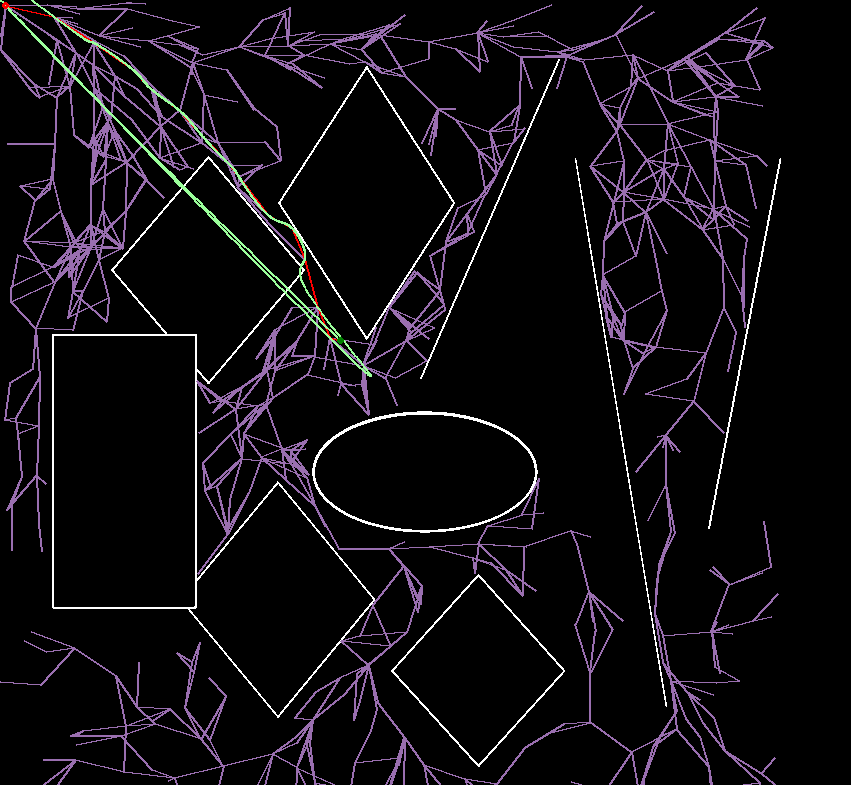
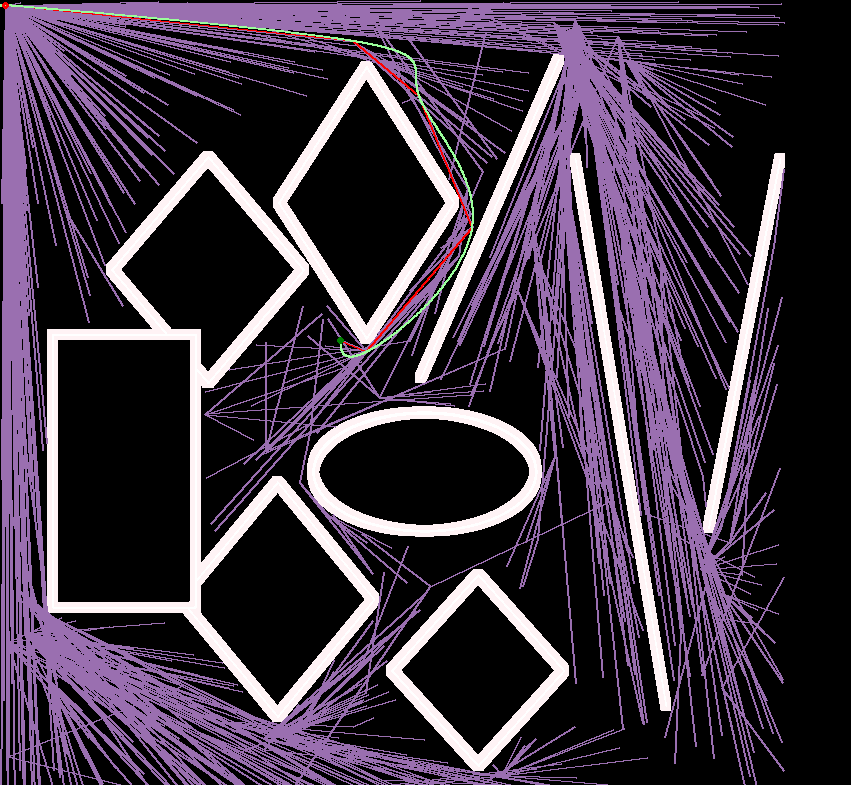
Config now allows for padding optons to account for robot size.

diff --git a/utils/render.py b/utils/render.py
@@ -1,5 +1,6 @@
 from PIL import Image, ImageDraw
 
+import config
 from type_hints.types import Grid, Edges, Path
 from utils.spline import smooth_path, convert_to_coordinates
 
@@ -9,11 +10,12 @@ red = (255, 0, 0, 100)
 purple = (83, 11, 120, 150)
 purple2 = (106, 12, 153, 100)
 green = (0, 255, 0, 100)
-pink = (255, 192, 203, 100)
+pink = (255, 192, 203, 50)
 
 color_mapping = {
     0: black,
     1: white,
+    2: pink,
     3: black,
     4: black,
     5: black
@@ -41,10 +43,24 @@ def image_to_grid(map_path: str, reverse_colors: bool = False) -> Grid:
     pixels = [pixels[i * width:(i + 1) * width] for i in range(height)]
     for pixel_row in pixels:
         for pixel in range(len(pixel_row)):
-            if all([x > 150 for x in pixel_row[pixel]]):
-                pixel_row[pixel] = 1 if not reverse_colors else 0
-            else:
-                pixel_row[pixel] = 0 if not reverse_colors else 1
+            if pixel_row[pixel] != 2:
+                if all([x > 150 for x in pixel_row[pixel]]):
+                    pixel_row[pixel] = 1 if not reverse_colors else 0
+                else:
+                    pixel_row[pixel] = 0 if not reverse_colors else 1
+
+    for pixel_row in range(len(pixels)):
+        for pixel in range(len(pixels[pixel_row])):
+            if pixels[pixel_row][pixel] == 1:
+                top = max(0, pixel_row - config.padding)
+                bottom = min(pixel_row + config.padding, len(pixels) - 1)
+                left = max(0, pixel - config.padding)
+                right = min(pixel + config.padding, len(pixels[0]))
+
+                for j in range(top, bottom):
+                    for k in range(left, right):
+                        if pixels[j][k] != 1:
+                            pixels[j][k] = 2
 
     return pixels
 

diff --git a/utils/occupancy_grid.py b/utils/occupancy_grid.py
@@ -19,7 +19,7 @@ def line_cross_check(grid: Grid, node_a: Node, node_b: Node) -> bool:
         err = dx / 2.0
         while x0 != x1:
             if 0 <= x0 < len(grid[0]) and 0 <= y0 < len(grid):
-                if grid[y0][x0] == 1:
+                if grid[y0][x0] == 1 or grid[y0][x0] == 2:
                     return True
             err -= dy
             if err < 0:
@@ -30,7 +30,7 @@ def line_cross_check(grid: Grid, node_a: Node, node_b: Node) -> bool:
         err = dy / 2.0
         while y0 != y1:
             if 0 <= x0 < len(grid[0]) and 0 <= y0 < len(grid):
-                if grid[y0][x0] == 1:
+                if grid[y0][x0] == 1 or grid[y0][x0] == 2:
                     return True
             err -= dx
             if err < 0:
@@ -39,7 +39,7 @@ def line_cross_check(grid: Grid, node_a: Node, node_b: Node) -> bool:
             y0 += y_sign
 
     if 0 <= x0 < len(grid[0]) and 0 <= y0 < len(grid):
-        if grid[y0][x0] == 1:
+        if grid[y0][x0] == 1 or grid[y0][x0] == 2:
             return True
 
     return False
@@ -55,6 +55,7 @@ def check_collision(grid: Grid, node: Node) -> bool:
             or node[1] < 0
             or node[1] > len(grid[0]) - 1
             or grid[node[0]][node[1]] == 1
+            or grid[node[0]][node[1]] == 2
 
     )
 

diff --git a/config.py b/config.py
@@ -1,19 +1,13 @@
-from global_sim.algorithm import rrt_sid, rrt_star
 from type_hints.types import Node
 
-# Algorithm
-algo_options = {
-    "rrt_sid": rrt_sid,
-    "rrt_star": rrt_star
-}
-
-algo: str = "rrt_star"
+# Algorithm - rrt_star or rrt_sid
+algo: str = "rrt_sid"
 
 iters: int = 1000
 start_node: Node = (5, 5)
 end_node: Node = (340, 340)
 initial_generate_dist: int = 50  # Sometimes, increasing leads to reaching farther areas
-
+padding: int = 5
 
 # Render
 map_bw_reverse: bool = False  # Reverse black and white in obstacle readings

diff --git a/main.py b/main.py
@@ -2,6 +2,7 @@ import time
 
 import pygame
 
+from global_sim.algorithm import rrt_sid, rrt_star
 from type_hints.types import Grid
 from utils.render import image_to_grid
 import config
@@ -15,7 +16,12 @@ if config.debug:
     pygame.init()
     screen = pygame.display.set_mode((len(grid[0]), len(grid)))
 
-config.algo_options[config.algo](
+algo_options = {
+    "rrt_sid": rrt_sid,
+    "rrt_star": rrt_star
+}
+
+algo_options[config.algo](
     grid,
     config.iters,
     config.start_node,
